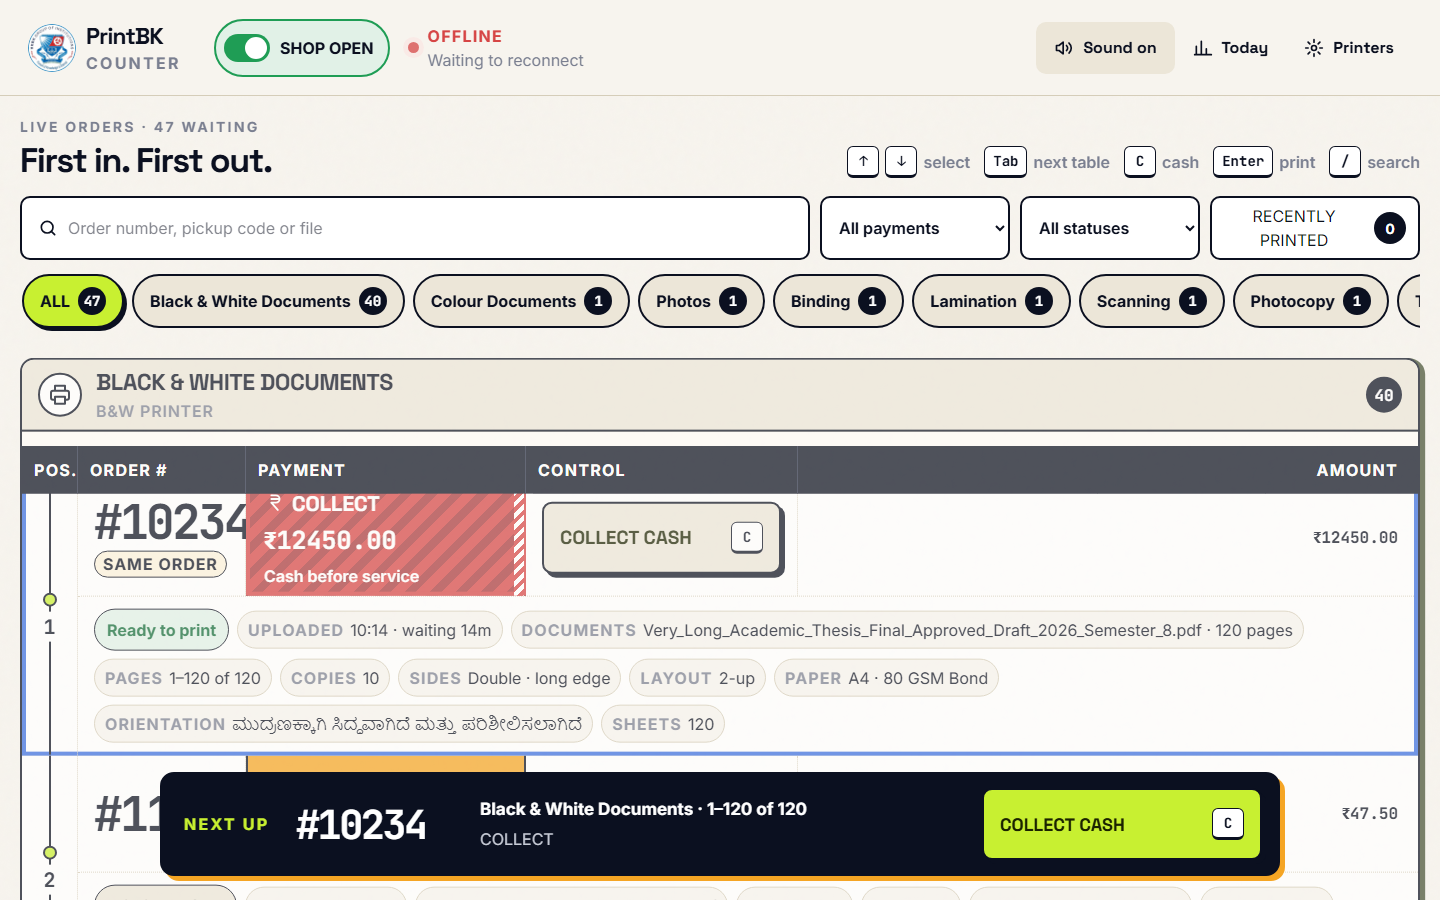
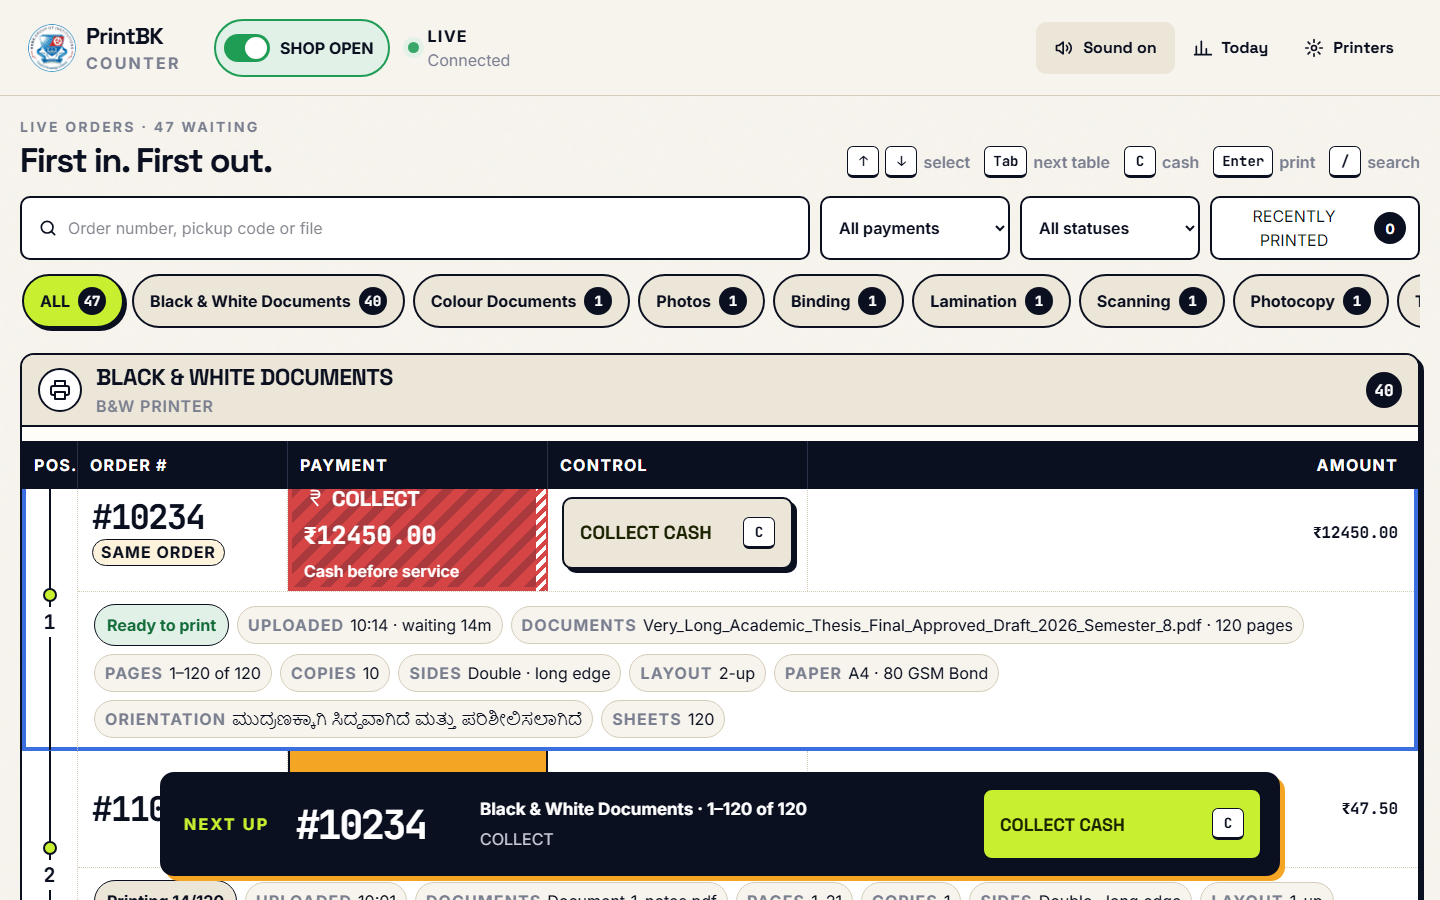
fix(staff): eliminate visual overlapping in order numbers, payment column, combine chip, and side panel

diff --git a/PrintBK/staff/src/index.css b/PrintBK/staff/src/index.css
@@ -126,7 +126,7 @@ kbd { min-width: 32px; height: 32px; display: inline-grid; place-items: center; 
 .service-title > b { min-width: 36px; height: 36px; display: grid; place-items: center; margin-left: auto; border-radius: 50%; background: var(--ink); color: white; font: 700 16px "JetBrains Mono"; }
 .table-scroll { max-height: none !important; overflow: visible !important; }
 .table-head { position: sticky; z-index: 10; top: 86px; min-height: 48px; background: var(--ink); color: white; }
-.compact-head { display: grid; grid-template-columns: 56px 168px 280px 272px minmax(120px, 1fr); align-items: stretch; }
+.compact-head { display: grid; grid-template-columns: 56px 210px 260px 260px minmax(110px, 1fr); align-items: stretch; }
 .table-head > span { display: flex; align-items: center; padding: 0 12px; border-right: 1px solid var(--ink-2); font-size: 14px; font-weight: 700; letter-spacing: .08em; text-transform: uppercase; }
 .table-head > span:last-child { border-right: none; justify-content: flex-end; text-align: right; padding-right: 20px; }
 .job-wrap { border-bottom: 1px solid var(--line); }
@@ -136,17 +136,18 @@ kbd { min-width: 32px; height: 32px; display: inline-grid; place-items: center; 
 @keyframes newOrder { 0%, 45% { background: rgba(200,240,49,.45); } 100% { background: transparent; } }
 .job-wrap.is-complete { animation: completeFlash 3s ease both; }
 @keyframes completeFlash { 0%, 75% { background: var(--success); color: white; } 100% { opacity: 0; transform: translateY(12px); max-height: 0; } }
-.job-row { min-height: 148px; display: grid; grid-template-columns: 56px 168px 280px 272px minmax(120px, 1fr); grid-template-rows: auto auto; background: white; cursor: pointer; }
+.job-row { min-height: 148px; display: grid; grid-template-columns: 56px 210px 260px 260px minmax(110px, 1fr); grid-template-rows: auto auto; background: white; cursor: pointer; }
 .job-row:hover { background: #fbf8f1; }
 .job-row > div:not(.detail-chip-line) { min-width: 0; display: flex; flex-direction: column; justify-content: center; gap: 5px; padding: 8px; border-right: 1px dotted var(--line); font-size: 16px; line-height: 1.2; }
 .position { position: relative; grid-row: 1 / 3; width: 56px; display: flex; flex-direction: column; align-items: center; justify-content: center; padding: 0 !important; }
 .position::before { content: ""; position: absolute; top: 0; bottom: 0; left: 27px; width: 2px; background: var(--ink); }
 .position i { position: relative; z-index: 2; width: 14px; height: 14px; border: 2px solid var(--ink); border-radius: 50%; background: var(--lime); }
 .position b { position: relative; z-index: 2; padding: 2px 4px; background: white; font: 700 20px "JetBrains Mono"; }
-.row-order { width: 168px; padding: 12px 16px !important; display: flex; flex-direction: column; justify-content: center; gap: 6px; }
-.row-order strong { font: 700 40px/1 "JetBrains Mono", monospace; letter-spacing: -.06em; }
-.row-order span, .combine-chip { align-self: flex-start; display: inline-flex; max-width: 136px; overflow: hidden; text-overflow: ellipsis; white-space: nowrap; padding: 3px 8px; border: 1px solid var(--ink); border-radius: 999px; background: var(--warning-tint); font-size: 14px; font-weight: 700; letter-spacing: .06em; }
-.row-payment { width: 280px; padding: 12px 16px !important; word-break: break-word; white-space: normal; border-right: 2px solid var(--ink) !important; border-left: 2px solid var(--ink); display: flex; flex-direction: column; justify-content: center; gap: 6px; }
+.row-order { min-width: 0; width: 100%; padding: 12px 14px !important; display: flex; flex-direction: column; justify-content: center; gap: 6px; overflow: hidden; }
+.row-order strong { font: 700 38px/1 "JetBrains Mono", monospace; letter-spacing: -.05em; white-space: nowrap; }
+.row-order span { align-self: flex-start; display: inline-flex; max-width: 160px; overflow: hidden; text-overflow: ellipsis; white-space: nowrap; padding: 3px 8px; border: 1px solid var(--ink); border-radius: 999px; background: var(--warning-tint); font-size: 14px; font-weight: 700; letter-spacing: .06em; }
+.combine-chip { align-self: flex-start; display: inline-flex; max-width: 100%; overflow: hidden; text-overflow: ellipsis; white-space: nowrap; padding: 4px 10px; border: 1px solid var(--ink); border-radius: 999px; background: var(--warning-tint); font-size: 14px; font-weight: 700; letter-spacing: .06em; }
+.row-payment { min-width: 0; width: 100%; padding: 12px 14px !important; word-break: break-word; white-space: normal; border-right: 2px solid var(--ink) !important; border-left: 2px solid var(--ink); display: flex; flex-direction: column; justify-content: center; gap: 6px; overflow: hidden; }
 .payment-main { display: flex; flex-wrap: wrap; align-items: center; gap: 6px; font: 700 20px "Space Grotesk"; text-transform: uppercase; }
 .payment-main b { font: 700 20px "JetBrains Mono"; }
 .row-payment small { display: block; margin-top: 4px; font-size: 14px; font-weight: 600; line-height: 1.3; }
@@ -156,8 +157,8 @@ kbd { min-width: 32px; height: 32px; display: inline-grid; place-items: center; 
 .row-payment--cash_due::after { content: ""; position: absolute; top: 0; right: 0; bottom: 0; width: 10px; background: repeating-linear-gradient(135deg, white 0 4px, var(--error) 4px 8px); }
 .row-payment--cash_due .payment-main { font-size: 20px; }
 .row-payment--cash_due .payment-main b { font-size: 20px; }
-.row-amount { padding: 12px 20px 12px 12px !important; display: flex; flex-direction: column; justify-content: center; align-items: flex-end; text-align: right; font: 700 20px "JetBrains Mono"; font-variant-numeric: tabular-nums; border-right: none !important; }
-.row-controls { width: 272px; min-width: 272px !important; padding: 12px 16px !important; display: flex; align-items: center; justify-content: center; gap: 16px; }
+.row-amount { min-width: 0; width: 100%; padding: 12px 20px 12px 10px !important; display: flex; flex-direction: column; justify-content: center; align-items: flex-end; text-align: right; font: 700 20px "JetBrains Mono"; font-variant-numeric: tabular-nums; border-right: none !important; }
+.row-controls { min-width: 0; width: 100%; padding: 12px 14px !important; display: flex; align-items: center; justify-content: center; gap: 16px; }
 .row-controls .button { width: 100%; height: 72px; min-height: 72px; padding: 0 16px; font-size: 20px; font-weight: 700; white-space: nowrap; gap: 12px; background: var(--sand); }
 .row-controls .button:hover { background: var(--sand-deep); }
 .row-controls .button kbd { margin-left: auto; font-size: 14px; }
@@ -186,7 +187,7 @@ kbd { min-width: 32px; height: 32px; display: inline-grid; place-items: center; 
 .all-caught-up strong { font: 700 72px "Space Grotesk"; letter-spacing: -.06em; }
 .all-caught-up p { color: var(--muted); font-size: 18px; }
 
-.order-detail-panel { position: fixed; z-index: 60; top: 86px; right: 0; width: min(720px, 100vw); height: calc(100vh - 86px); overflow-y: auto; padding: 24px 26px 120px; border-left: 2px solid var(--ink); background: var(--paper); box-shadow: -5px 0 0 rgba(11,16,32,.12); }
+.order-detail-panel { position: fixed; z-index: 60; top: 86px; right: 0; width: min(640px, 100vw); height: calc(100vh - 86px); overflow-y: auto; padding: 24px 26px 120px; border-left: 2px solid var(--ink); background: var(--paper); box-shadow: -5px 0 0 rgba(11,16,32,.12); }
 .panel-handle { display: none; }
 .detail-panel-top { display: flex; align-items: flex-start; justify-content: space-between; margin-bottom: 18px; }
 .detail-panel-top > div { display: flex; flex-direction: column; }
@@ -805,7 +806,7 @@ kbd { min-width: 32px; height: 32px; display: inline-grid; place-items: center; 
 /* Counter-distance readability: the operational Orders view never drops below 16px. */
 .orders-board .service-title span, .orders-board .table-head > span, .orders-board .row-order span, .orders-board .combine-chip, .orders-board .row-payment small, .orders-board .printing-progress small, .orders-board .detail-chip, .orders-board .detail-chip b, .orders-board .state-chip, .orders-board .inline-order-detail span, .orders-board .inline-order-detail b { font-size: 16px; }
 .orders-board .service-title strong { font-size: 23px; }
-.orders-board .row-order strong { font-size: 48px; }
+.orders-board .row-order strong { font-size: clamp(34px, 2.3vw, 40px); }
 .orders-board .payment-main { font-size: 21px; }
 .orders-board .payment-main b { font-size: 25px; }
 .orders-board .row-controls .button { font-size: 19px; }
@@ -851,7 +852,7 @@ kbd { min-width: 32px; height: 32px; display: inline-grid; place-items: center; 
   .service-switcher b { min-width: 26px; height: 26px; display: grid; place-items: center; border-radius: 50%; background: var(--ink); color: white; font: 700 11px "JetBrains Mono"; }
   .tables-grid { grid-template-columns: 1fr; }
   .service-table { grid-column: 1; }
-  .compact-head, .job-row { grid-template-columns: 42px 108px minmax(220px, 1fr) 240px 100px; }
+  .compact-head, .job-row { grid-template-columns: 48px 180px minmax(200px, 1fr) 240px 100px; }
   .orders-toolbar { grid-template-columns: 1fr 1fr; }
   .orders-toolbar .orders-search, .orders-toolbar .recent-wrap { grid-column: span 2; }
   .kpi-grid { grid-template-columns: repeat(2, 1fr); }

diff --git a/PrintBK/staff/tests/layout.spec.ts b/PrintBK/staff/tests/layout.spec.ts
@@ -147,12 +147,19 @@ function generateWorstCaseJobs(): TestJob[] {
 }
 
 async function setupPageWithWorstCase(page: Page) {
+  await page.route("**/server/api/**", (route) => {
+    route.fulfill({
+      status: 200,
+      contentType: "application/json",
+      body: JSON.stringify({ items: [], printers: [], shop: { is_open: true } }),
+    })
+  })
   // Ensure staff app considers the counter paired so it loads the Orders board directly
   await page.addInitScript(() => {
     window.localStorage.setItem("printbk-paired", "true")
   })
   await page.goto("/?view=orders")
-  await page.waitForLoadState("networkidle")
+  await page.waitForLoadState("domcontentloaded")
 
   // Inject worst case jobs via custom event
   const worstCase = generateWorstCaseJobs()
@@ -364,16 +371,25 @@ test.describe("Staff Counter App Visual Hardening (Phase 4)", () => {
   })
 
   test("Capture before pairing screenshots at 1920 and 1440", async ({ page }) => {
+    await page.route("**/server/api/**", (route) => {
+      route.fulfill({
+        status: 200,
+        contentType: "application/json",
+        body: JSON.stringify({ items: [], printers: [], shop: { is_open: true } }),
+      })
+    })
     // Before pairing (first-run screen) at 1920
     await page.setViewportSize({ width: 1920, height: 1080 })
     await page.goto("/?view=orders")
-    await page.waitForLoadState("networkidle")
+    await page.waitForLoadState("domcontentloaded")
+    await page.waitForTimeout(300)
     await page.screenshot({ path: "../docs/screenshots/staff-1920-before.png" })
 
     // Before pairing (first-run screen) at 1440
     await page.setViewportSize({ width: 1440, height: 900 })
     await page.goto("/?view=orders")
-    await page.waitForLoadState("networkidle")
+    await page.waitForLoadState("domcontentloaded")
+    await page.waitForTimeout(300)
     await page.screenshot({ path: "../docs/screenshots/staff-1440-before.png" })
   })
 })
